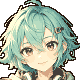
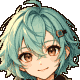
Keep fine details in the stand-in pixel portraits
Thin dark lines are thickened before shrinking and blended back in, the
palette uses k-means refinement with more colours, and the crop sits closer
to the face, so eyes, highlights and the hairpin survive at 80x80.

diff --git a/scripts/pixelate-portraits.py b/scripts/pixelate-portraits.py
@@ -1,6 +1,6 @@
 """Turn high-resolution character portraits into small pixel-art portraits for the dialogue windows.
 
-Usage: python -I scripts/pixelate-portraits.py <source dir> <output dir> [--size 80] [--colors 20] [--zoom 0.82]
+Usage: python -I scripts/pixelate-portraits.py <source dir> <output dir> [--size 80] [--colors 28] [--zoom 0.74] [--lines 7]
 
 For each PNG in the source dir: crop the head-and-shoulders square from the top, shrink it with an
 area filter, reduce the palette (no dithering), make the alpha hard-edged and add a one-pixel dark
@@ -15,7 +15,7 @@ from PIL import Image, ImageEnhance, ImageFilter
 OUTLINE = (42, 26, 16, 255)
 
 
-def pixelate(source: Path, size: int, colors: int, zoom: float = 1.0) -> Image.Image:
+def pixelate(source: Path, size: int, colors: int, zoom: float = 1.0, lines: int = 7) -> Image.Image:
     image = Image.open(source).convert("RGBA")
     width, height = image.size
     # Head and shoulders: a square from the top, centred horizontally. zoom < 1 crops closer to the face,
@@ -23,27 +23,26 @@ def pixelate(source: Path, size: int, colors: int, zoom: float = 1.0) -> Image.I
     side = int(min(width, height) * zoom)
     left = (width - side) // 2
     image = image.crop((left, 0, left + side, side))
-    # Crisp edges survive the shrink better.
-    image = image.filter(ImageFilter.UnsharpMask(radius=4, percent=120, threshold=2))
-    small = image.resize((size, size), Image.Resampling.BOX)
+    alpha_full = image.getchannel("A")
+    rgb = Image.new("RGB", image.size, (255, 255, 255))
+    rgb.paste(image.convert("RGB"), mask=alpha_full)
+    small = rgb.resize((size, size), Image.Resampling.BOX)
+    if lines:
+        # Averaging washes out thin dark lines (eye outlines, lashes, hair strands). Thicken the dark
+        # parts first and blend that in, so the lines survive the shrink.
+        dark = rgb.filter(ImageFilter.MinFilter(lines)).resize((size, size), Image.Resampling.BOX)
+        small = Image.blend(small, dark, 0.5)
     # Small images lose contrast; give faces and eyes a little back before reducing colours.
-    alpha_raw = small.getchannel("A")
-    small = ImageEnhance.Color(ImageEnhance.Contrast(small.convert("RGB")).enhance(1.18)).enhance(1.12).convert("RGBA")
-    small.putalpha(alpha_raw)
-    alpha = small.getchannel("A").point(lambda a: 255 if a >= 128 else 0)
-    rgb = Image.new("RGB", small.size, (255, 255, 255))
-    rgb.paste(small.convert("RGB"), mask=alpha)
-    quantized = rgb.quantize(colors=colors, method=Image.Quantize.MEDIANCUT, dither=Image.Dither.NONE).convert("RGBA")
+    small = ImageEnhance.Color(ImageEnhance.Contrast(small).enhance(1.15)).enhance(1.1)
+    alpha = alpha_full.resize((size, size), Image.Resampling.BOX).point(lambda a: 255 if a >= 128 else 0)
+    # k-means refinement keeps small colour areas (eye highlights, the hairpin) from merging away.
+    quantized = small.quantize(colors=colors, method=Image.Quantize.MEDIANCUT, kmeans=4, dither=Image.Dither.NONE).convert("RGBA")
     quantized.putalpha(alpha)
     # One-pixel outline around the silhouette.
     grown = alpha.filter(ImageFilter.MaxFilter(3))
     result = Image.new("RGBA", small.size, (0, 0, 0, 0))
-    for y in range(size):
-        for x in range(size):
-            if alpha.getpixel((x, y)):
-                result.putpixel((x, y), quantized.getpixel((x, y)))
-            elif grown.getpixel((x, y)):
-                result.putpixel((x, y), OUTLINE)
+    result.paste(Image.new("RGBA", small.size, OUTLINE), mask=grown)
+    result.paste(quantized, mask=alpha)
     return result
 
 
@@ -52,13 +51,14 @@ def main() -> None:
     parser.add_argument("source", type=Path)
     parser.add_argument("output", type=Path)
     parser.add_argument("--size", type=int, default=80)
-    parser.add_argument("--colors", type=int, default=20)
-    parser.add_argument("--zoom", type=float, default=0.82, help="crop closer to the face (e.g. 0.8)")
+    parser.add_argument("--colors", type=int, default=28)
+    parser.add_argument("--zoom", type=float, default=0.74, help="crop closer to the face (e.g. 0.8)")
+    parser.add_argument("--lines", type=int, default=7, help="keep thin dark lines (0 turns it off)")
     args = parser.parse_args()
     args.output.mkdir(parents=True, exist_ok=True)
     for source in sorted(args.source.glob("*.png")):
         target = args.output / source.name
-        pixelate(source, args.size, args.colors, args.zoom).save(target, optimize=True)
+        pixelate(source, args.size, args.colors, args.zoom, args.lines).save(target, optimize=True)
         print(f"{source.name} -> {target} ({target.stat().st_size} bytes)")
 
 

diff --git a/PROGRESS.md b/PROGRESS.md
@@ -297,3 +297,9 @@
   - 手机只玩横屏：竖着拿时显示"把手机横过来玩"提示，可"全屏横屏开始"（安卓 Chrome 可锁定横屏）或改用网页模式；横屏矮屏幕时对话框、头像、菜单、按钮自动变紧凑。
 - 用户提出人物 2D 动画也交给另一位：像素角色用逐帧动画而不是骨骼动画（骨骼会旋转拉伸、打乱像素格）。美术清单新增 H 小镇地图（含五栋房子坐标）、I 五个室内、J 人物动画精灵图（每帧 16×32，待机/三方向行走/说话，附 JSON 格式），并调整出图顺序。
 - 浏览器验证：地图 → 进入事务所 → 委托板 → 在游戏窗口里完整跑案例 1；关闭、Esc、网页/游戏/专业模式切换；844×390 横屏与 390×844 竖屏提示。75/75 测试通过。
+
+
+## 2026-10-14：头像细节保留
+
+- 用户反馈头像有些细节被吞掉。原因：缩小时平均颜色冲淡了细线（眼线、睫毛、发丝），20 色调色板把眼睛高光、发卡这类小色块并掉，裁切也不够靠近脸。
+- scripts/pixelate-portraits.py 改为：先把深色细线加粗再与普通缩小结果混合（--lines 7），调色板加 k-means 细化并增到 28 色，裁切更靠近脸（--zoom 0.74），仍为 80×80、界面 2 倍显示。7 张临时头像重新生成，眼神、高光、发卡、表情手势都清楚了。75/75 测试通过。
